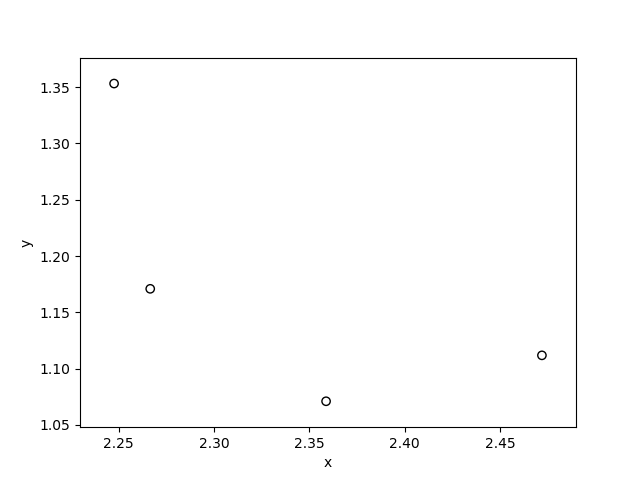
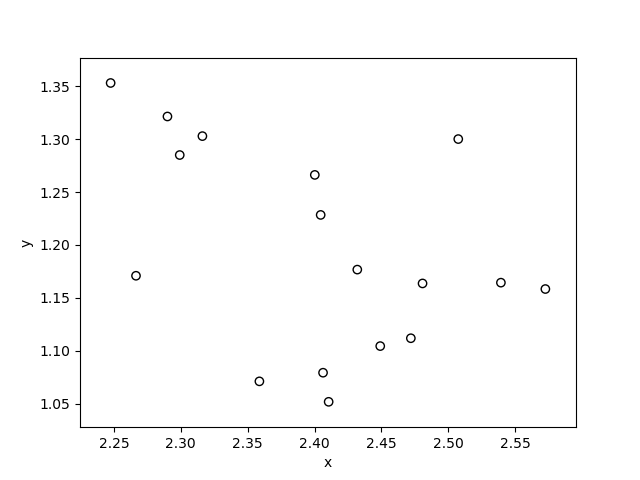
droplet pattern

diff --git a/bootstrap/run_abc.py b/bootstrap/run_abc.py
@@ -14,18 +14,19 @@ target_mean_drop_height = np.concatenate((blue_z, green_z)).mean()
 
 # Generate histograms of the true data
 bins = 50
-target_blue_heatmap, blue_x_edges, blue_y_edges = np.histogram2d(blue_x, blue_z, bins = bins)
-target_blue_heatmap /= len(blue_x)
-
-target_green_heatmap, green_x_edges, green_y_edges = np.histogram2d(green_y, green_z, bins=bins)
-target_green_heatmap /= len(green_y)
+#target_blue_heatmap, blue_x_edges, blue_y_edges = np.histogram2d(blue_x, blue_z, bins = bins)
+#target_blue_heatmap /= len(blue_x)
+target_blue_heatmap = np.histogram2d(blue_x, blue_z, bins=bins)[0]/len(blue_x)
+target_green_heatmap = np.histogram2d(green_y, green_z, bins=bins)[0]/len(green_y)
+#target_green_heatmap, green_x_edges, green_y_edges = np.histogram2d(green_y, green_z, bins=bins)
+#target_green_heatmap /= len(green_y)
 
 tol_drop_ratio = 0.1
 tol_mean_drop_height = 0.02
 tol_heatmap_abs_err = 2
 
 N_drops = 10000
-N_expts = 2000
+N_expts = 5000
 
 accepted = None
 

diff --git a/bootstrap/model.py b/bootstrap/model.py
@@ -1,0 +1,13 @@
+from sprinkler import *
+from mpl_toolkits.mplot3d import Axes3D
+np.random.seed(0)
+
+x = 2.40
+y = 1.19
+blue_x, blue_z, green_y, green_z = sprinkler(x, y, 100000)
+
+ax = visualise_droplets(blue_x, blue_z, green_y, green_z)
+ax.scatter(x, y, 0, color = 'none', edgecolor = 'black', alpha = 1)
+plt.savefig('model.png')
+
+print('{:.2f}, {:.2f}'.format(x, y))
